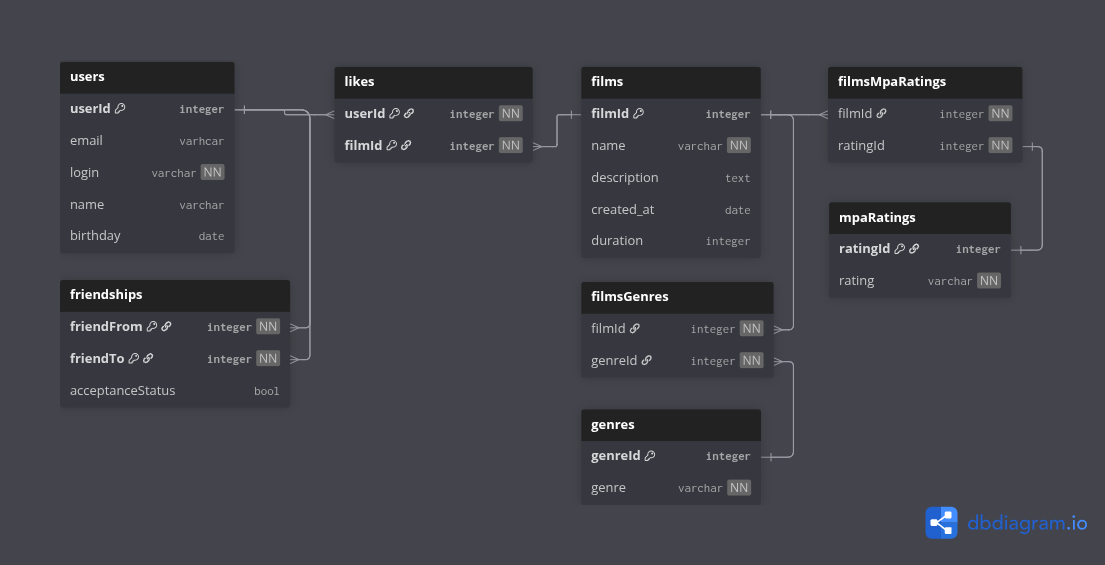
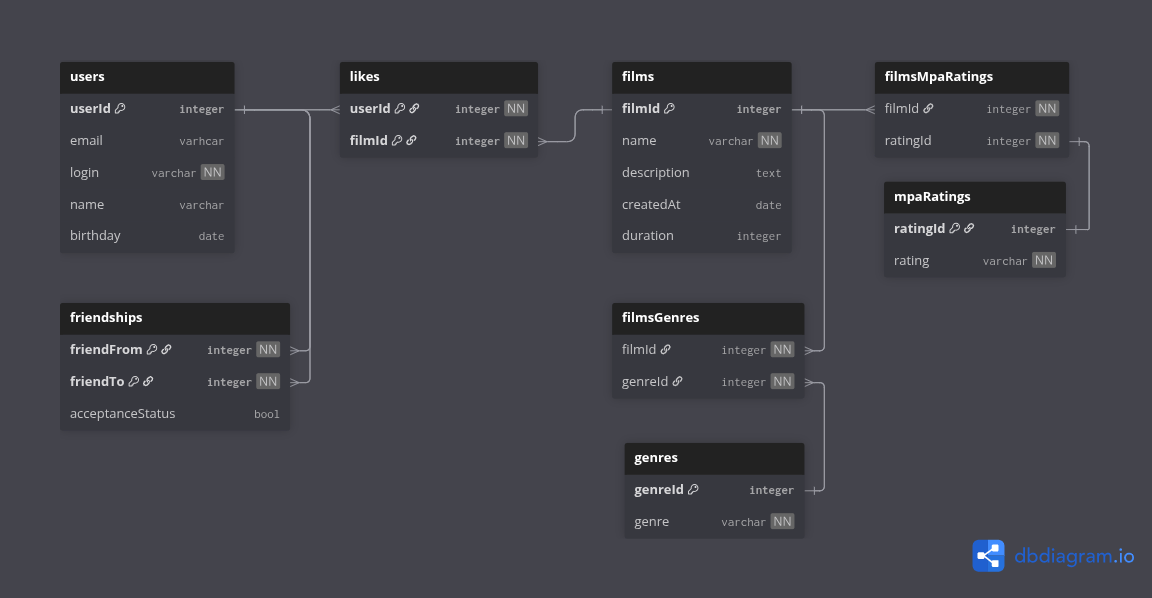
add fix snake_case to camelCase

diff --git a/README.md b/README.md
@@ -32,7 +32,7 @@ WHERE email = 'user@example.com';
 
 ```sql
 INSERT INTO users (email, login, name, birthday)
-VALUES ('ivan@mail.ru', 'ivan123', 'Иван Иванов', '1990-05-16');
+VALUES ('ivan@mail.ru', 'ivan123', 'Иван Иванов', '1990-05-15');
 ```
 </details>
 
@@ -120,7 +120,7 @@ WHERE f1.friendFrom = 1 AND f2.friendFrom = 2
 <details><summary>Получить все фильмы</summary>
 
 ```sql
-SELECT filmId, name, description, created_at, duration 
+SELECT filmId, name, description, createdAt, duration 
 FROM films;
 ```
 </details>
@@ -128,7 +128,7 @@ FROM films;
 <details><summary>Получить фильм по ID</summary>
 
 ```sql
-SELECT filmId, name, description, created_at, duration 
+SELECT filmId, name, description, createdAt, duration 
 FROM films 
 WHERE filmId = 1;
 ```
@@ -141,7 +141,7 @@ SELECT
     f.filmId,
     f.name,
     f.description,
-    f.created_at,
+    f.createdAt,
     f.duration,
     g.genre,
     m.rating as mpa_rating
@@ -156,7 +156,7 @@ LEFT JOIN mpaRatings m ON fmr.ratingId = m.ratingId;
 <details><summary>Добавить новый фильм</summary>
 
 ```sql
-INSERT INTO films (name, description, created_at, duration)
+INSERT INTO films (name, description, createdAt, duration)
 VALUES ('Матрица', 'Научная фантастика о виртуальной реальности', '1999-03-31', 136);
 ```
 </details>
@@ -200,7 +200,7 @@ DELETE FROM films WHERE filmId = 1;
 <details><summary>Получить все лайки пользователя</summary>
 
 ```sql
-SELECT f.filmId, f.name, f.description, f.created_at, f.duration 
+SELECT f.filmId, f.name, f.description, f.createdAt, f.duration 
 FROM films f
 JOIN likes l ON f.filmId = l.filmId
 WHERE l.userId = 1;
@@ -235,10 +235,10 @@ WHERE userId = 1 AND filmId = 5;
 <details><summary>Получить самые популярные фильмы (по лайкам)</summary>
 
 ```sql
-SELECT f.filmId, f.name, f.description, f.created_at, f.duration, COUNT(l.userId) as likes_count
+SELECT f.filmId, f.name, f.description, f.createdAt, f.duration, COUNT(l.userId) as likes_count
 FROM films f
 LEFT JOIN likes l ON f.filmId = l.filmId
-GROUP BY f.filmId, f.name, f.description, f.created_at, f.duration
+GROUP BY f.filmId, f.name, f.description, f.createdAt, f.duration
 ORDER BY likes_count DESC
 LIMIT 10;
 ```
@@ -259,7 +259,7 @@ FROM genres;
 <details><summary>Получить фильмы определённого жанра</summary>
 
 ```sql
-SELECT f.filmId, f.name, f.description, f.created_at, f.duration
+SELECT f.filmId, f.name, f.description, f.createdAt, f.duration
 FROM films f
 JOIN filmsGenres fg ON f.filmId = fg.filmId
 WHERE fg.genreId = 1;
@@ -289,7 +289,7 @@ FROM mpaRatings;
 <details><summary>Получить фильмы с определённым рейтингом</summary>
 
 ```sql
-SELECT f.filmId, f.name, f.description, f.created_at, f.duration
+SELECT f.filmId, f.name, f.description, f.createdAt, f.duration
 FROM films f
 JOIN filmsMpaRatings fmr ON f.filmId = fmr.filmId
 WHERE fmr.ratingId = 2;
@@ -311,7 +311,7 @@ VALUES ('PG-13');
 <details><summary>Рекомендации: фильмы, которые понравились друзьям, но не просмотрены пользователем</summary>
 
 ```sql
-SELECT DISTINCT f.filmId, f.name, f.description, f.created_at, f.duration
+SELECT DISTINCT f.filmId, f.name, f.description, f.createdAt, f.duration
 FROM films f
 JOIN likes l ON f.filmId = l.filmId
 JOIN friendships fr ON l.userId = fr.friendTo
@@ -355,3 +355,10 @@ ORDER BY friends_count DESC
 LIMIT 10;
 ```
 </details>
+
+---
+
+**Примечание**: Запросы адаптированы для PostgreSQL. Основные отличия от MySQL:
+- Используется `STRING_AGG()` вместо `GROUP_CONCAT()`
+- Поддерживается стандартный SQL синтаксис
+- Типы данных: `SERIAL` для автоинкремента, `BOOLEAN` для булевых значений
